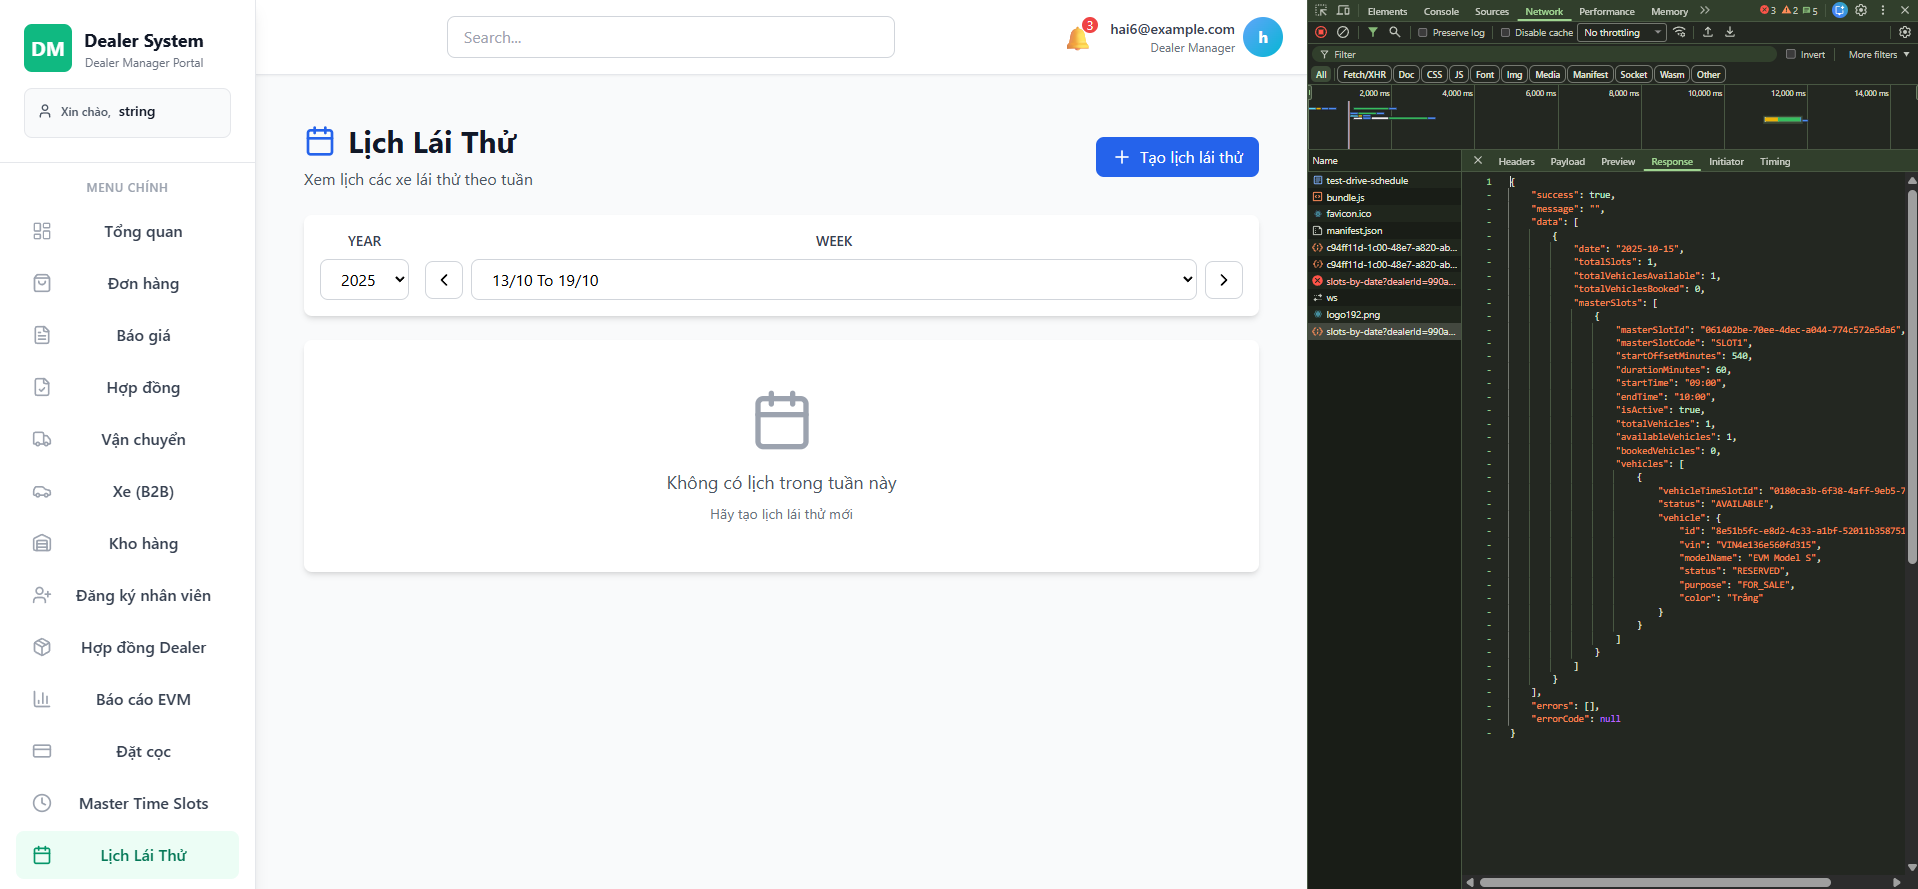
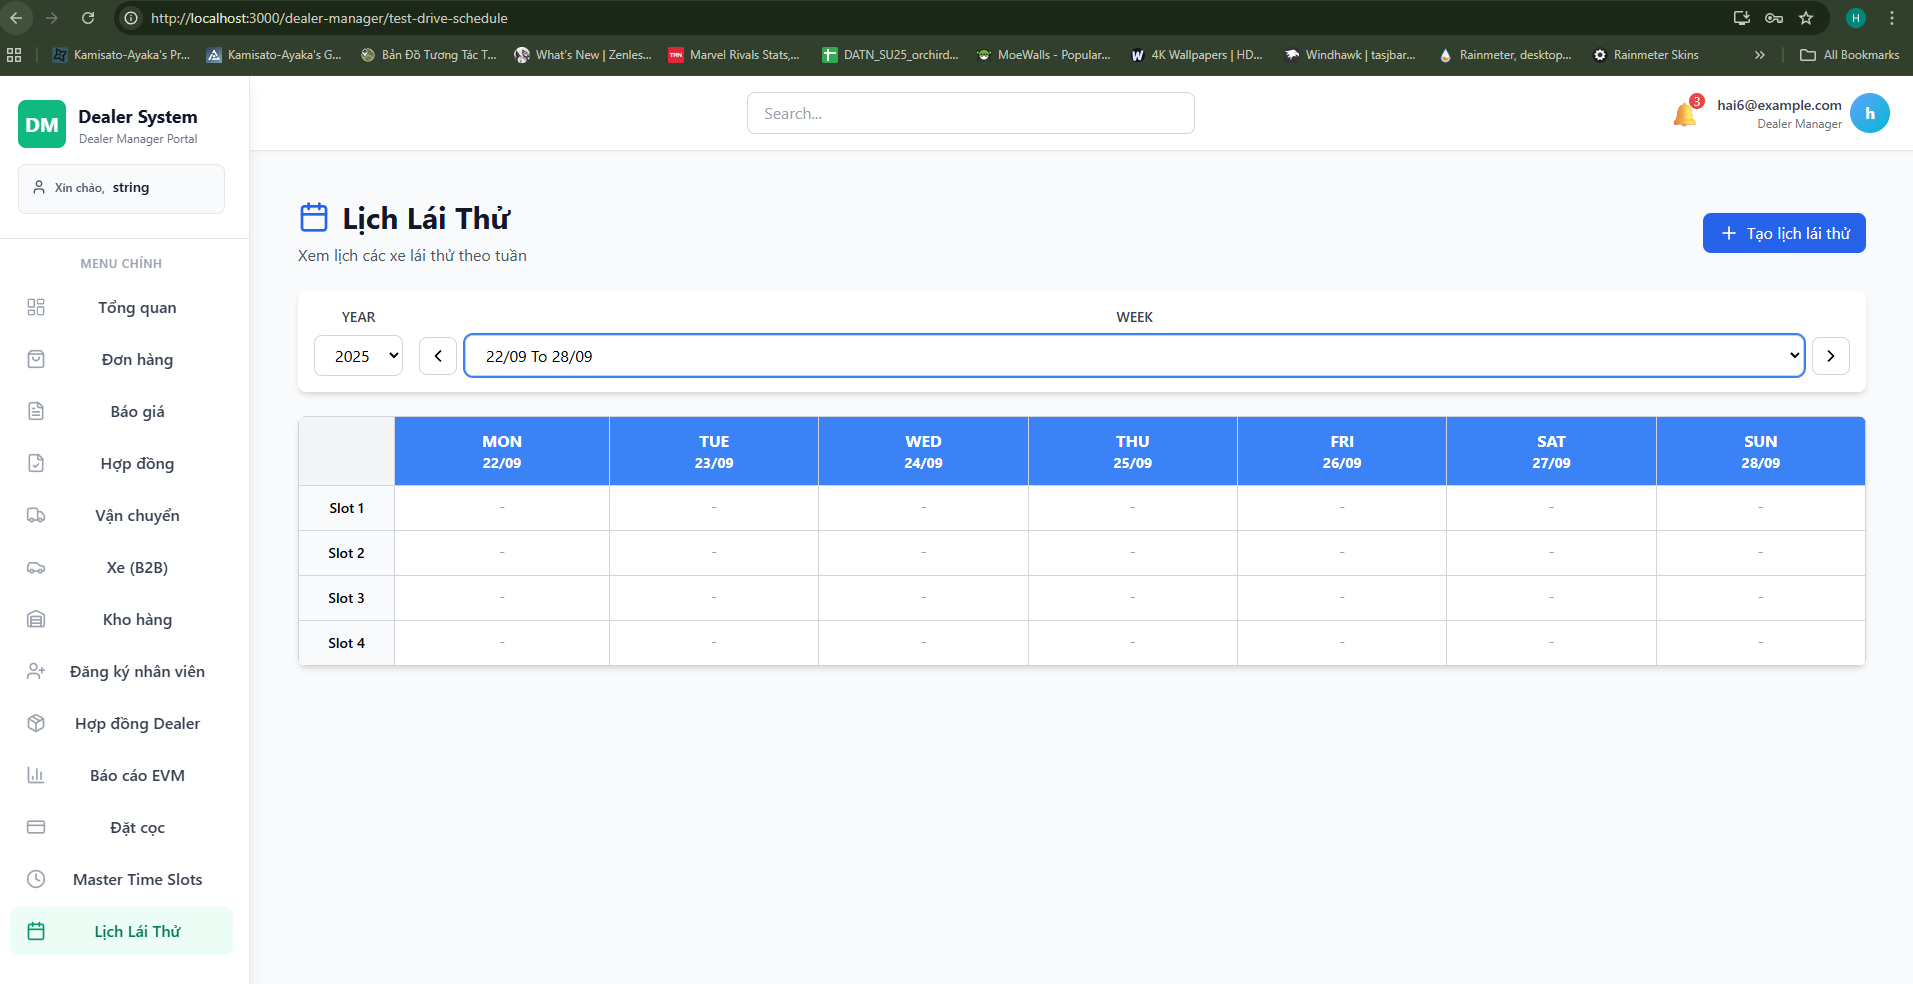
sửa tối ưu trang lịch lái thử

diff --git a/src/features/dealer-manager/pages/TestDriveSchedulePage.jsx b/src/features/dealer-manager/pages/TestDriveSchedulePage.jsx
@@ -368,12 +368,6 @@ const TestDriveSchedulePage = () => {
             <p className="mt-4 text-gray-600">Đang tải lịch...</p>
           </div>
         </div>
-      ) : !Array.isArray(scheduleData) || scheduleData.length === 0 ? (
-        <div className="bg-white rounded-lg shadow-md p-12 text-center">
-          <Calendar className="w-16 h-16 text-gray-400 mx-auto mb-4" />
-          <p className="text-gray-600 text-lg">Không có lịch trong tuần này</p>
-          <p className="text-gray-500 text-sm mt-2">Hãy tạo lịch lái thử mới</p>
-        </div>
       ) : (
         <div className="bg-white rounded-lg shadow-md overflow-hidden">
           <div className="overflow-x-auto">
